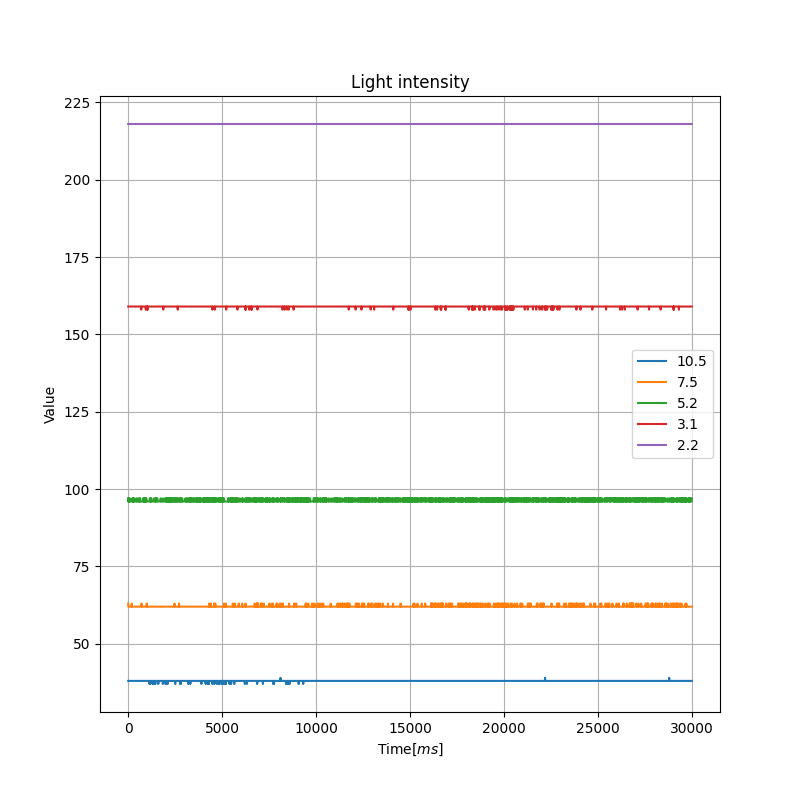
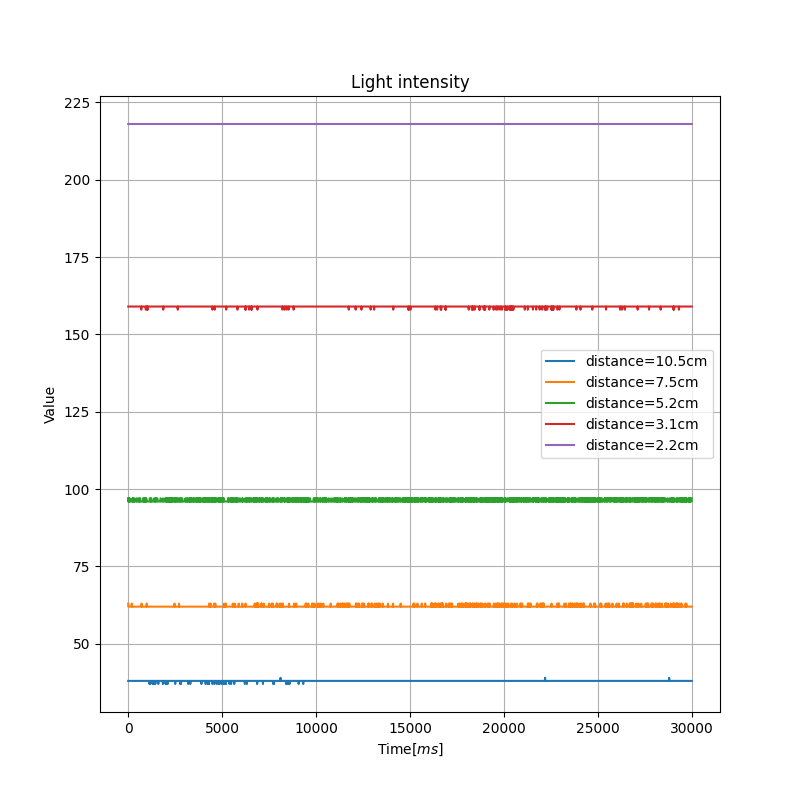
modified:   res/chapter10/Figure_1.png 	modified:   res/chapter10/Figure_2.png 	modified:   res/chapter10/c10_graph.py 	modified:   res/chapter8/Figure_2.png 	modified:   res/chapter8/Figure_3.png 	modified:   res/chapter8/c8_graph.py

Changed region(s): [[0.6875, 0.4375, 0.875, 0.5625]]

diff --git a/res/chapter10/c10_graph.py b/res/chapter10/c10_graph.py
@@ -6,7 +6,7 @@
 #    By: al19136 <al19136@shibaura-it.ac.jp>        +#+  +:+       +#+         #
 #                                                 +#+#+#+#+#+   +#+            #
 #    Created: 2021/06/04 02:11:58 by al19136           #+#    #+#              #
-#    Updated: 2021/06/07 23:01:43 by al19136          ###   ########.fr        #
+#    Updated: 2021/06/08 01:24:48 by al19136          ###   ########.fr        #
 #                                                                              #
 # **************************************************************************** #
 
@@ -18,12 +18,16 @@ def do_processing(label, varDict):
 	csv = "./c10_" + label + ".csv"
 	print(label + ":")
 	data = pd.read_csv(csv, encoding = 'utf-8')
+	print("ave : " + str(np.mean(data['value'])))
 	print("var : " + str(np.var(data['value'])))
 	varDict['var'].append(np.var(data['value']))
 	plt.plot(data['ms'], data['value'])
  
+labelList = []
 varDict = {}
 varDict['dist'] = pd.read_csv('./distance.csv', encoding = 'utf-8')['dist']
+for i in range(len(varDict['dist'])) :
+	labelList.append("distance=" + str(varDict['dist'][i]) + "cm")
 varDict['var'] = []
 plt.figure(figsize = (8, 8))
 plt.figure(1)
@@ -36,13 +40,13 @@ do_processing('data4', varDict)
 do_processing('data5', varDict)
 plt.xlabel('Time[$ms$]')
 plt.ylabel('Value')
-plt.legend(varDict['dist'])
+plt.legend(labelList)
 plt.figure(figsize = (8, 8))
 plt.figure(2)
 plt.grid(True)
 plt.title('Variance of light intensity')
 plt.xlabel('Distance[$cm$]')
-plt.ylabel('Variance[$cm^{2}$]')
+plt.ylabel('Variance')
 plt.scatter(varDict['dist'], varDict['var'])
 plt.plot(varDict['dist'], np.poly1d(np.polyfit(varDict['dist'], varDict['var'], 3))(varDict['dist']))
 

diff --git a/res/chapter8/c8_graph.py b/res/chapter8/c8_graph.py
@@ -6,7 +6,7 @@
 #    By: al19136 <al19136@shibaura-it.ac.jp>        +#+  +:+       +#+         #
 #                                                 +#+#+#+#+#+   +#+            #
 #    Created: 2021/06/04 02:11:58 by al19136           #+#    #+#              #
-#    Updated: 2021/06/07 23:25:34 by al19136          ###   ########.fr        #
+#    Updated: 2021/06/08 00:51:54 by al19136          ###   ########.fr        #
 #                                                                              #
 # **************************************************************************** #
 
@@ -24,6 +24,7 @@ def append_variance(label, varDict, angle):
 	csv = "./c8_" + label + ".csv"
 	print(label + ":")
 	data = pd.read_csv(csv, encoding = 'utf-8')
+	print("ave : " + str(np.mean(data['value'])))
 	print("var : " + str(np.var(data['value'])))
 	varDict['angle'].append(angle)
 	varDict['var'].append(np.var(data['value']))
@@ -59,7 +60,7 @@ append_variance('data4', varDict, 0)
 plt.scatter(varDict['angle'], varDict['var'])
 plt.plot(varDict['angle'], np.poly1d(np.polyfit(varDict['angle'], varDict['var'], 2))(varDict['angle']));
 plt.xlabel('Angle[$deg$]')
-plt.ylabel('Variance[$deg^2$]')
+plt.ylabel('Variance')
 plt.title('NormalCircuit')
 plt.figure(figsize = (8, 8))
 plt.figure(3)
@@ -71,7 +72,7 @@ append_variance('data8', varDictPullDown, 0)
 plt.scatter(varDictPullDown['angle'], varDictPullDown['var'])
 plt.plot(varDictPullDown['angle'], np.poly1d(np.polyfit(varDictPullDown['angle'], varDictPullDown['var'], 2))(varDictPullDown['angle']));
 plt.xlabel('Angle[$deg$]')
-plt.ylabel('Variance[$deg^2$]')
+plt.ylabel('Variance')
 plt.title('NormalCircuit + PullDownCircuit')
 
 plt.show()
